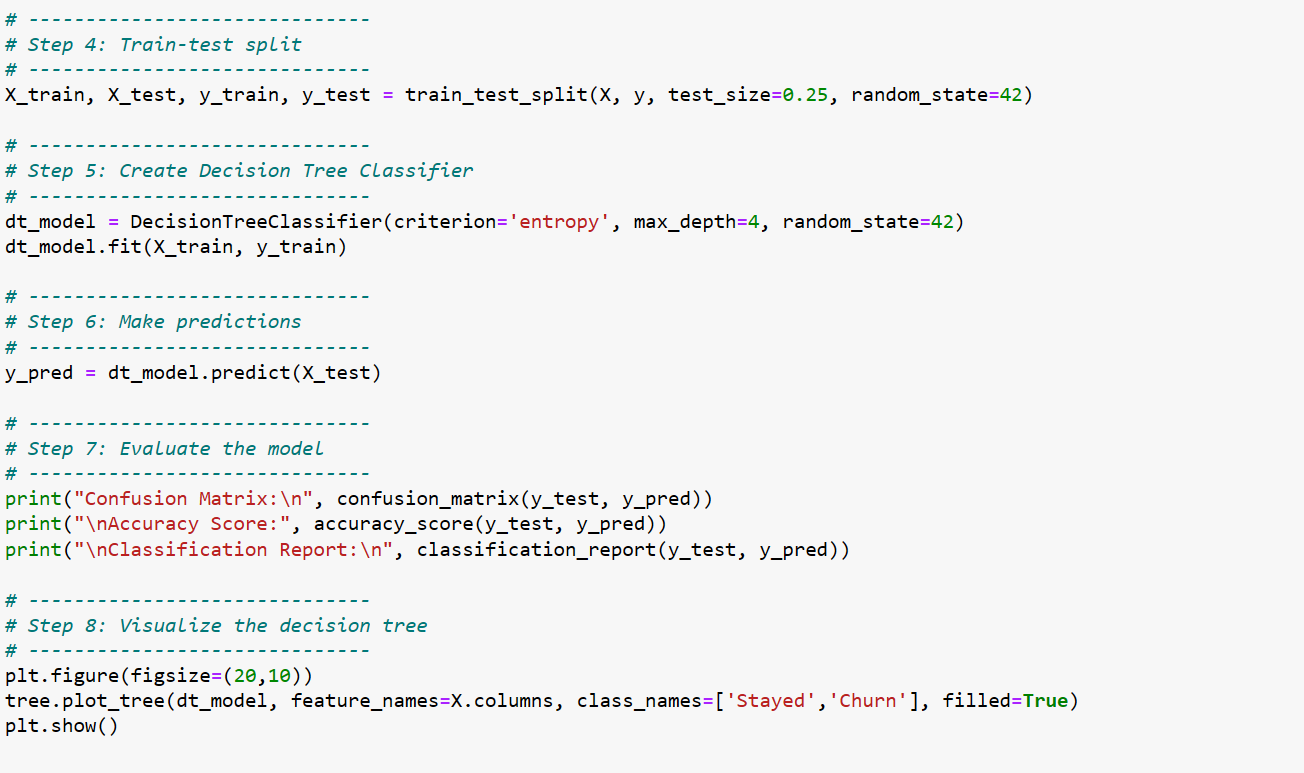
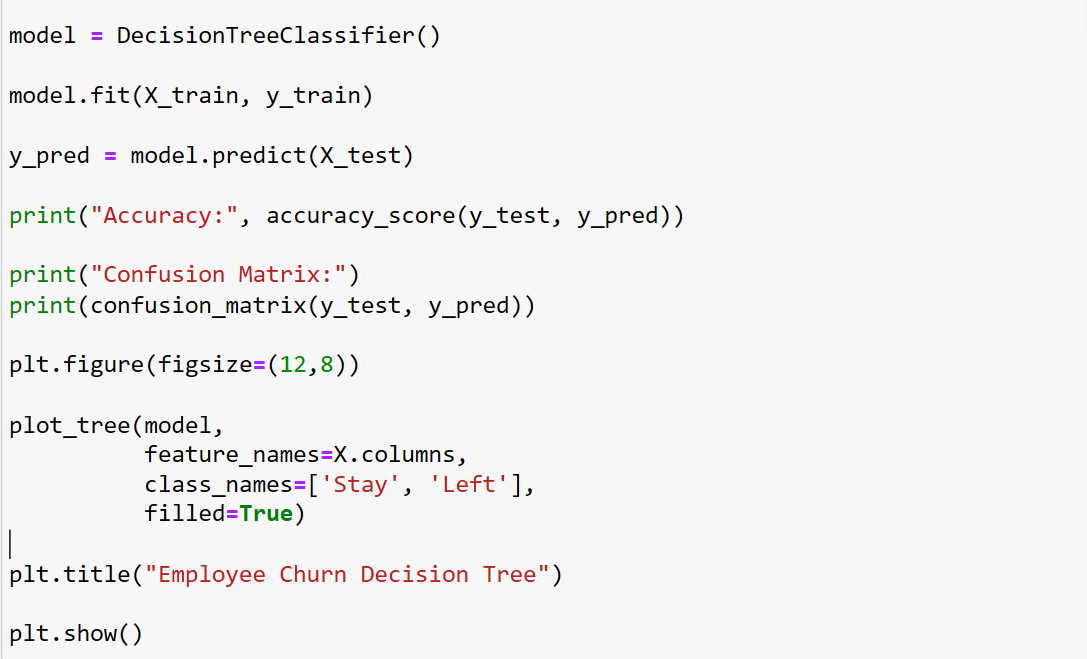
success

Changed region(s): [[0.0, 0.0, 0.8197, 0.9712], [0.3947, 0.4552, 0.4857, 0.4856]]

diff --git a/README.md b/README.md
@@ -29,69 +29,54 @@ Program to implement the Decision Tree Classifier Model for Predicting Employee 
 #Ex 08 - Implementation of Decision Tree Classifier Model for Predicting Employee Churn
 # Import libraries
 import pandas as pd
-from sklearn.model_selection import train_test_split
-from sklearn.tree import DecisionTreeClassifier
-from sklearn.metrics import confusion_matrix, accuracy_score, classification_report
-from sklearn import tree
 import matplotlib.pyplot as plt
+from sklearn.model_selection import train_test_split
+from sklearn.preprocessing import LabelEncoder
+from sklearn.tree import DecisionTreeClassifier, plot_tree
+from sklearn.metrics import accuracy_score, confusion_matrix
 
-# ------------------------------
-# Step 1: Sample dataset
-# ------------------------------
-data = {
-    'satisfaction_level': [0.38, 0.80, 0.11, 0.72, 0.37, 0.41, 0.10, 0.92],
-    'last_evaluation': [0.53, 0.86, 0.88, 0.87, 0.52, 0.50, 0.77, 0.89],
-    'number_project': [2, 5, 7, 5, 2, 2, 6, 5],
-    'average_monthly_hours': [157, 262, 272, 223, 159, 153, 247, 224],
-    'time_spend_company': [3, 6, 4, 5, 3, 3, 4, 5],
-    'Work_accident': [0, 0, 0, 0, 0, 0, 0, 0],
-    'promotion_last_5years': [0, 0, 0, 0, 0, 0, 0, 0],
-    'Departments': ['sales','accounting','hr','technical','support','management','marketing','product'],
-    'salary': ['low','medium','medium','high','low','low','medium','high'],
-    'left': [1, 1, 1, 1, 1, 0, 1, 0]  # Target variable: 1=Churn, 0=Stayed
-}
+df = pd.read_csv("Employee.csv")
 
-df = pd.DataFrame(data)
+label = LabelEncoder()
 
-# ------------------------------
-# Step 2: Encode categorical variables
-# ------------------------------
-df = pd.get_dummies(df, columns=['Departments','salary'], drop_first=True)
+df['Work_accident'] = label.fit_transform(df['Work_accident'])
+df['promotion_last_5years'] = label.fit_transform(df['promotion_last_5years'])
+df['Departments '] = label.fit_transform(df['Departments '])
+df['salary'] = label.fit_transform(df['salary'])
+df['left'] = label.fit_transform(df['left'])
 
-# ------------------------------
-# Step 3: Split into features and target
-# ------------------------------
-X = df.drop('left', axis=1)
+X = df[['satisfaction_level',
+        'last_evaluation',
+        'number_project',
+        'average_montly_hours',
+        'time_spend_company']]
+
 y = df['left']
 
-# ------------------------------
-# Step 4: Train-test split
-# ------------------------------
-X_train, X_test, y_train, y_test = train_test_split(X, y, test_size=0.25, random_state=42)
+X_train, X_test, y_train, y_test = train_test_split(
+    X, y, test_size=0.2, random_state=42
+)
 
-# ------------------------------
-# Step 5: Create Decision Tree Classifier
-# ------------------------------
-dt_model = DecisionTreeClassifier(criterion='entropy', max_depth=4, random_state=42)
-dt_model.fit(X_train, y_train)
+model = DecisionTreeClassifier()
 
-# ------------------------------
-# Step 6: Make predictions
-# ------------------------------
-y_pred = dt_model.predict(X_test)
+model.fit(X_train, y_train)
 
-# ------------------------------
-# Step 7: Evaluate the model
-# ------------------------------
-print("Confusion Matrix:\n", confusion_matrix(y_test, y_pred))
-print("\nAccuracy Score:", accuracy_score(y_test, y_pred))
-print("\nClassification Report:\n", classification_report(y_test, y_pred))
+y_pred = model.predict(X_test)
 
-# ------------------------------
-# Step 8: Visualize the decision tree
-# ------------------------------
-plt.figure(figsize=(20,10))
-tree.plot_tree(dt_model, feature_names=X.columns, class_names=['Stayed','Churn'], filled=True)
+print("Accuracy:", accuracy_score(y_test, y_pred))
+
+print("Confusion Matrix:")
+print(confusion_matrix(y_test, y_pred))
+
+plt.figure(figsize=(12,8))
+
+plot_tree(model,
+          feature_names=X.columns,
+          class_names=['Stay', 'Left'],
+          filled=True)
+
+plt.title("Employee Churn Decision Tree")
+
 plt.show()
 
 Developed by: Swathi P N
@@ -106,8 +91,6 @@ RegisterNumber:  212225230279
 ![alt text](ml8.2.png)
 
 ![alt text](ml8.3.png)
-
-![alt text](ml8.4.png)
 
 ## Result:
 Thus the program to implement the  Decision Tree Classifier Model for Predicting Employee Churn is written and verified using python programming.